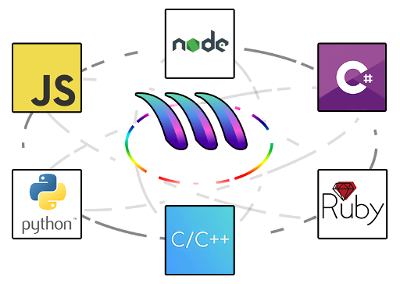
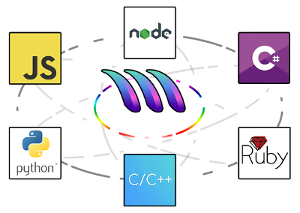
Update overview image size for readme again.

diff --git a/README.md b/README.md
@@ -22,7 +22,7 @@ metacall('sum', 3, 4); // 7
 ```
 
 <div align="center">
-  <a href="https://medium.com/@metacall/call-functions-methods-or-procedures-between-programming-languages-with-metacall-58cfece35d7" target="_blank"><img src="https://raw.githubusercontent.com/metacall/core/master/deploy/images/overview.png" alt="M E T A C A L L" style="max-width:100%;" width="400" height="284">
+  <a href="https://medium.com/@metacall/call-functions-methods-or-procedures-between-programming-languages-with-metacall-58cfece35d7" target="_blank"><img src="https://raw.githubusercontent.com/metacall/core/master/deploy/images/overview.png" alt="M E T A C A L L" style="max-width:100%;" width="300" height="213">
 </div>
 
 # Table Of Contents
